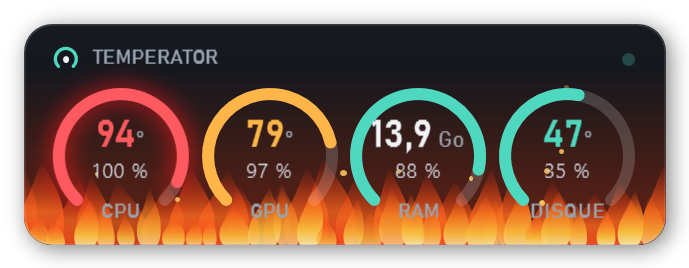
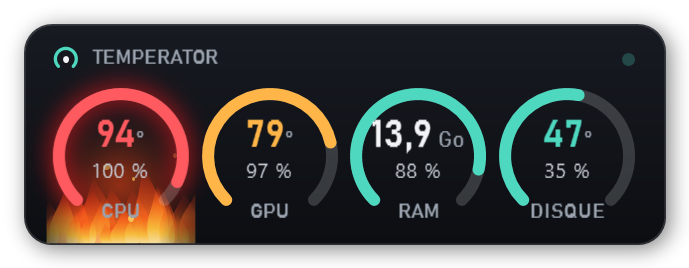
Round gauges by default, and fire only on the overheating gauge
- Gauges is now the default display (rows and bars still in the menu)
- In gauges mode each tile has its own fire layer: flames rise from the
  widget's bottom edge under that gauge only, with a round glow and soft
  faded edges; rows mode keeps the full-width fire
- Fire sizes come from a FireStyle (card or gauge)

diff --git a/src/Temperator/Fire.cs b/src/Temperator/Fire.cs
@@ -7,7 +7,16 @@ using System.Windows.Shapes;
 
 namespace Temperator;
 
-/// <summary>Flammes et braises qui montent du bas du widget quand un composant est trop chaud.</summary>
+/// <summary>Taille du feu : tout le bas du widget (affichage en lignes) ou une seule jauge.</summary>
+/// <param name="HeightRatio">hauteur des grandes flammes, en part de la hauteur de la zone</param>
+/// <param name="RoundGlow">lueur ronde (sous une jauge) plutôt qu'en bande</param>
+sealed record FireStyle(double HeightRatio, double MaxHeight, double BackSpacing, double FrontSpacing, int Embers, bool RoundGlow)
+{
+    public static readonly FireStyle Card = new(0.5, 58, 15, 11, 14, false);
+    public static readonly FireStyle Gauge = new(0.62, 46, 8, 6, 7, true);
+}
+
+/// <summary>Flammes et braises qui montent du bas d'une zone (le widget, ou une jauge) quand c'est trop chaud.</summary>
 sealed class Fire
 {
     // goutte de flamme dans un carré 1×1, pointe en haut
@@ -21,17 +30,24 @@ sealed class Fire
         new(Color.FromArgb(0x00, 0xFF, 0x46, 0x14), 0),
         new(Color.FromArgb(0x80, 0xFF, 0x46, 0x14), 1),
     }, 90));
+    static readonly Brush RoundGlowBrush = Freeze(new RadialGradientBrush(new GradientStopCollection
+    {
+        new(Color.FromArgb(0x90, 0xFF, 0x46, 0x14), 0),
+        new(Color.FromArgb(0x00, 0xFF, 0x46, 0x14), 1),
+    }));
     static readonly Brush Ember = Freeze(new SolidColorBrush(Color.FromRgb(0xFF, 0xC8, 0x5A)));
 
     const int Fps = 30;   // assez fluide, et léger pour le processeur
     readonly Canvas layer;
+    readonly FireStyle style;
     readonly Random rnd = new();
     double builtWidth = -1, builtHeight = -1, target = -1;
     bool burning;
 
-    public Fire(Canvas layer)
+    public Fire(Canvas layer, FireStyle? style = null)
     {
         this.layer = layer;
+        this.style = style ?? FireStyle.Card;
         layer.IsHitTestVisible = false;
         layer.Opacity = 0;
         layer.Visibility = Visibility.Hidden;   // Hidden (pas Collapsed) : garde sa taille pour construire les flammes
@@ -65,15 +81,25 @@ sealed class Fire
         builtHeight = h;
         layer.Children.Clear();
 
-        var glow = new Rectangle { Width = w, Height = h * 0.8, Fill = Glow };
-        Canvas.SetBottom(glow, 0);
+        Shape glow;
+        if (style.RoundGlow)
+        {
+            glow = new Ellipse { Width = w * 1.1, Height = h, Fill = RoundGlowBrush };
+            Canvas.SetLeft(glow, -w * 0.05);
+            Canvas.SetBottom(glow, -h * 0.15);
+        }
+        else
+        {
+            glow = new Rectangle { Width = w, Height = h * 0.8, Fill = Glow };
+            Canvas.SetBottom(glow, 0);
+        }
         layer.Children.Add(glow);
         Loop(glow, UIElement.OpacityProperty, 0.55, 1, 0.9, 1.4);
 
-        double tall = Math.Min(h * 0.5, 58);   // la moitié basse : les valeurs restent lisibles
-        AddRow(w, tall, BackFlame, spacing: 15);
-        AddRow(w, tall * 0.62, FrontFlame, spacing: 11);
-        for (int i = 0; i < 14; i++) AddEmber(w, h);
+        double tall = Math.Min(h * style.HeightRatio, style.MaxHeight);   // le bas seulement : les valeurs restent lisibles
+        AddRow(w, tall, BackFlame, style.BackSpacing);
+        AddRow(w, tall * 0.62, FrontFlame, style.FrontSpacing);
+        for (int i = 0; i < style.Embers; i++) AddEmber(w, h);
     }
 
     void AddRow(double w, double height, Brush fill, double spacing)

diff --git a/src/Temperator/MainWindow.xaml.cs b/src/Temperator/MainWindow.xaml.cs
@@ -185,7 +185,8 @@ public partial class MainWindow : Window
         }
         halo.Opacity = HaloOpacity;
         UpdateBackdropTimer();
-        if (!s.FireAnimation) fire.Set(0);
+        if (!s.FireAnimation || s.Gauges) fire.Set(0);
+        if (!s.FireAnimation || !s.Gauges) foreach (var t in new[] { gCpu, gGpu, gRam, gDisk, gFan }) t.SetFire(0);
     }
 
     double HaloOpacity => BgOpacity < 0.3 ? 0.95 : palette.IsLight ? 0.75 : 0.6;
@@ -279,8 +280,20 @@ public partial class MainWindow : Window
         cpu.SetHot(c); gpu.SetHot(g); disk.SetHot(d);
         gCpu.SetHot(c); gGpu.SetHot(g); gDisk.SetHot(d);
         ApplyGauges(r);
-        double over = Math.Max(Over(c, r.CpuTemp, CpuHot), Math.Max(Over(g, r.GpuTemp, GpuHot), Over(d, r.DiskTemp, DiskHot)));
-        fire.Set(s.FireAnimation && (c || g || d) ? 1 + Math.Clamp(over / 10, 0, 1) : 0);
+        // le feu : sur la jauge concernée en jauges rondes, sur tout le bas du widget en lignes
+        double Flame(double over) => s.FireAnimation ? 1 + Math.Clamp(over / 10, 0, 1) : 0;
+        if (s.Gauges)
+        {
+            fire.Set(0);
+            gCpu.SetFire(c ? Flame(Over(c, r.CpuTemp, CpuHot)) : 0);
+            gGpu.SetFire(g ? Flame(Over(g, r.GpuTemp, GpuHot)) : 0);
+            gDisk.SetFire(d ? Flame(Over(d, r.DiskTemp, DiskHot)) : 0);
+        }
+        else
+        {
+            double over = Math.Max(Over(c, r.CpuTemp, CpuHot), Math.Max(Over(g, r.GpuTemp, GpuHot), Over(d, r.DiskTemp, DiskHot)));
+            fire.Set(c || g || d ? Flame(over) : 0);
+        }
 
         string? notice = null;
         if (!app.IsAdmin && !app.Demo) notice = "Lance Temperator en administrateur pour lire les températures.";

diff --git a/src/Temperator/Gauge.cs b/src/Temperator/Gauge.cs
@@ -107,8 +107,23 @@ sealed class GaugeTile
         face.Children.Add(ring);
         face.Children.Add(center);
         face.Children.Add(name);
+
+        // le feu de cette jauge seulement : derrière l'anneau, fondu en rond sur les bords (pas de « boîte »)
+        var fade = new RadialGradientBrush { Center = new Point(0.5, 0.62), GradientOrigin = new Point(0.5, 0.75), RadiusX = 0.5, RadiusY = 0.7 };
+        fade.GradientStops.Add(new GradientStop(Colors.White, 0));
+        fade.GradientStops.Add(new GradientStop(Colors.White, 0.4));
+        fade.GradientStops.Add(new GradientStop(Colors.Transparent, 1));
+        fade.Freeze();
+        var flames = new Canvas { Margin = new Thickness(-3, -6, -3, -10), OpacityMask = fade, ClipToBounds = true };   // jusqu'au bord bas du widget
+        fire = new Fire(flames, FireStyle.Gauge);
+        Root.Children.Add(flames);
         Root.Children.Add(face);
     }
+
+    readonly Fire fire;
+
+    /// <summary>0 = éteint, 1 = juste trop chaud, 2 = beaucoup trop chaud.</summary>
+    public void SetFire(double intensity) => fire.Set(intensity);
 
     public bool Visible
     {

diff --git a/src/Temperator/AppSettings.cs b/src/Temperator/AppSettings.cs
@@ -24,7 +24,7 @@ public sealed class AppSettings
     /// <summary>Opacité du fond seul (0 à 1), indépendante de l'opacité générale.</summary>
     public double BackgroundOpacity { get; set; } = 1.0;
     /// <summary>Affichage en jauges rondes au lieu des lignes et barres.</summary>
-    public bool Gauges { get; set; }
+    public bool Gauges { get; set; } = true;
     public bool FireAnimation { get; set; } = true;
     public double Scale { get; set; } = 1.0;
     public double Opacity { get; set; } = 1.0;

diff --git a/src/Temperator/App.xaml.cs b/src/Temperator/App.xaml.cs
@@ -255,7 +255,7 @@ public partial class App : Application
         try
         {
             Directory.CreateDirectory(dir);
-            Settings = new AppSettings { ShowFan = true };
+            Settings = new AppSettings { ShowFan = true, Gauges = false };
             Hub = new SensorHub(Dispatcher);
             widget = new MainWindow(this) { Left = -20000, Top = -20000 };
             var ready = new TaskCompletionSource();

diff --git a/README.md b/README.md
@@ -2,15 +2,17 @@
 
 Les températures et l'utilisation de ton PC, toujours à l'écran : un petit widget discret en haut à droite.
 
-<p align="center"><img src="docs/widget.png" width="300" alt="Le widget Temperator"></p>
+<p align="center"><img src="docs/widget-jauges.png" width="460" alt="Le widget Temperator en jauges rondes"></p>
 
 - **CPU, GPU, RAM, disques, ventilateur** : température, utilisation, mise à jour chaque seconde.
 - **Couleurs** : turquoise quand tout va bien, orange quand ça chauffe, rouge quand c'est trop chaud.
-- **Flammes quand c'est trop chaud** : le widget prend feu et la valeur en cause rougeoie (CPU ≥ 85 °C, GPU ≥ 87 °C, disque ≥ 60 °C).
+- **Flammes quand c'est trop chaud** (CPU ≥ 85 °C, GPU ≥ 87 °C, disque ≥ 60 °C) : en jauges rondes, seule la jauge concernée
+  prend feu et rougeoie ; en lignes, c'est tout le bas du widget.
 - **Mode translucide** : un verre teinté qui regarde le fond de l'écran autour de lui. Il passe en couleurs claires ou sombres
   pour rester lisible, prend la teinte du fond et s'opacifie si le fond est chargé. Ça s'adapte même pendant que tu le déplaces.
-- **Jauges rondes** (clic droit → *Affichage*) : une tuile par composant, avec un anneau qui se remplit selon la température
+- **Jauges rondes** (affichage par défaut) : une tuile par composant, avec un anneau qui se remplit selon la température
   (turquoise → orange → rouge), la température au centre et l'utilisation juste en dessous.
+  L'affichage en **lignes et barres** reste disponible (clic droit → *Affichage*).
 - **Opacité du fond réglable à part** (curseur de 0 à 100 %), indépendante de l'opacité générale. Dès que le fond laisse voir
   l'écran, les couleurs s'adaptent automatiquement à ce qu'il y a derrière.
 - **Sans aucun fond (100 % transparent)** : seuls le texte et les barres flottent sur l'écran. Les couleurs s'adaptent
@@ -23,6 +25,8 @@ Les températures et l'utilisation de ton PC, toujours à l'écran : un petit wi
 - **Icône près de l'horloge** : un clic masque ou réaffiche le widget, et le clic droit ouvre le même menu.
 - Démarre avec Windows, **sans demande d'autorisation à chaque fois**.
 
+<p align="center"><img src="docs/widget.png" width="300" alt="Affichage en lignes et barres"></p>
+<p align="center"><sub>Affichage en lignes et barres</sub></p>
 <p align="center">
   <img src="docs/widget-feu.png" width="260" alt="Trop chaud : le widget prend feu">
   <img src="docs/widget-translucide-sombre.png" width="260" alt="Mode translucide sur fond sombre">
@@ -39,7 +43,7 @@ Les températures et l'utilisation de ton PC, toujours à l'écran : un petit wi
   <img src="docs/widget-jauges-feu.png" width="350" alt="Jauges rondes, trop chaud">
   <img src="docs/widget-jauges-fond-40.png" width="420" alt="Jauges rondes, fond à 40 %">
 </p>
-<p align="center"><sub>Jauges rondes · trop chaud · fond à 40 %</sub></p>
+<p align="center"><sub>Jauges rondes · trop chaud (seule la jauge du CPU brûle) · fond à 40 %</sub></p>
 
 > Ce que Windows ne permet pas de recouvrir : le menu Démarrer, la recherche, Alt+Tab, le centre de notifications
 > et les jeux en plein écran *exclusif*. Les jeux en mode « fenêtré sans bordure » fonctionnent.
